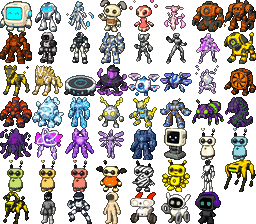
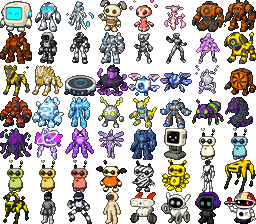
Add EMILIO, the tray-carrying service unit (species #49)
Twelfth homage on the roster: a tribute to the Bandai Emiglio/Emilio toy
butler robot. ALLOY/OPTIC, BST 506 weighted to bulk (108 DEF / 104 SPD)
with a deliberately low 52 SPE because it rolls on a tracked base.

Signature move TRAY SERVE (`heal_half`, self-target) is the roster's only
recovery signature - every other homage got an offensive one.

Art note: a white prop on a white body is invisible at 68 px. The serving
tray is EMILIO's whole identity and the first two renders lost it - held
level at the belly it dissolved into the torso, held out sideways it read
as a wing. It only survived once the prompt raised it aloft beside the head
on one claw, gave it a dark rim and underside, put a red cup on it as a
landmark, and demanded empty background all around and underneath it.

Accents are four saturated stops kept far from the white shell (the
warm-white beacon trap): hot orange eyes, lemon dome wedge, deep red wedge
and violet blue wedge, with the lemon chosen over golden yellow purely to
keep its distance from the eyes.

Encounters: ROUTE 3 (22-26) and CORE CITADEL (30-34). Also leads SENTINEL
VASH's elite team at level 36.

Translated into es/fr/it/ja (934/934 keys, ACCENTS OK, I18N OK in all five
languages). 79 unit tests plus newmons, battle, battle-bars, turn-order,
gyms, recovery, fx, overworld-fx, ambience and vs harnesses all green.

Copilot-Session: 3974e395-4a4d-4de5-b6cf-b02f7bb5b7c5

Changed region(s): [[0.875, 0.8438, 1.0, 1.0]]

diff --git a/client/src/game/data/maps.ts b/client/src/game/data/maps.ts
@@ -1017,6 +1017,7 @@ export const ROUTE3: MapDef = {
     { species: 'beni', min: 19, max: 23, weight: 6 },
     { species: 'loona', min: 20, max: 24, weight: 5 },
     { species: 'emo', min: 21, max: 25, weight: 4 },
+    { species: 'emilio', min: 22, max: 26, weight: 4 },
   ],
 };
 
@@ -1287,6 +1288,7 @@ export const CITADEL: MapDef = {
     { species: 'spotarm', min: 30, max: 34, weight: 5 },
     { species: 'emo', min: 28, max: 32, weight: 7 },
     { species: 'loona', min: 29, max: 33, weight: 5 },
+    { species: 'emilio', min: 30, max: 34, weight: 6 },
   ],
 };
 

diff --git a/client/src/game/data/trainers.ts b/client/src/game/data/trainers.ts
@@ -273,6 +273,7 @@ export const TRAINERS: Record<string, TrainerDef> = {
     key: 'elite_a', name: 'SENTINEL VASH', sprite: 'trainer_guard', payout: 260, ai: 2,
     music: 'elite',
     team: [
+      { species: 'emilio', level: 36 },
       { species: 'titanoid', level: 36 },
       { species: 'forgeron', level: 36 },
       { species: 'teslarch', level: 38 },

diff --git a/tools/newmons.py b/tools/newmons.py
@@ -44,6 +44,8 @@ NEW_MOVES = [
      "Bats at the foe with both front paws. May lower SPEED."),
     ("beat_drop", "BEAT DROP", "neural", "special", 85, 100, 15, "spd_down", 40, "foe", 0,
      "Pushes a bass line through its headphones. May lower SP.DEF."),
+    ("tray_serve", "TRAY SERVE", "alloy", "status", 0, 100, 10, "heal_half", 100, "self", 0,
+     "Serves itself a tray of chilled coolant. Restores half of its own HP."),
 ]
 
 # --------------------------------------------------------------------------- #
@@ -457,6 +459,63 @@ SPECIES = [
         learn=[(1, "data_spike"), (1, "mind_link"), (5, "pixel_grin"), (10, "strobe"),
                (15, "beat_drop"), (21, "logic_bomb"), (27, "firewall"), (33, "hypnotize"),
                (39, "stack_trace"), (46, "neural_storm"), (54, "kernel_panic")],
+    ),
+
+    # ------------------------------------------------------------------ EMILIO
+    dict(
+        key="emilio", name="EMILIO", inspired="EMILIO",
+        types=["alloy", "optic"], genus="Service Unit",
+        stats=(90, 78, 108, 74, 104, 52), catch=45, base_exp=197,
+        growth="medium_fast", height=0.52, weight=3.4, cell=(64, 60),
+        # White shell, so every accent has to stay far from white (the warm-white
+        # beacon lesson). Four saturated stops: the hot orange eyes are kept a
+        # long way from the lemon dome wedge, which is the pair most at risk of
+        # merging - lemon rather than golden yellow buys the margin.
+        accents=((0xF8, 0x70, 0x10), (0xF8, 0xE0, 0x28), (0xC8, 0x20, 0x30),
+                 (0x38, 0x48, 0xC0)),
+        dex="A retired service unit. It will not stop offering you a drink, and it has never once "
+            "dropped its tray.",
+        art="A charming retro toy service robot creature with no legs, rolling on a base, CARRYING A "
+            "TRAY: the head is a large smooth glossy WHITE dome like a rounded helmet, and the top "
+            "of that dome is split into three equally large bold coloured wedge panels - a deep "
+            "VIOLET BLUE wedge clearly visible on the left, a bright LEMON YELLOW wedge across the "
+            "top centre, and a deep RED wedge on the right, all three the same size and all three "
+            "plainly visible from the front - with a few fine white vent slats moulded across the "
+            "middle of them; the entire front of the head below those wedges is one wide glossy JET "
+            "BLACK visor band that wraps right around the face; floating on that black visor are "
+            "TWO large round glowing HOT ORANGE eyes set wide apart, lit from within like two "
+            "little lamps, the single brightest feature of the creature, and below them a thin "
+            "curved bright smile line, giving it a warm friendly grin; one small bright yellow tab "
+            "sticks out at the right side of the head; below the head a chunky glossy white barrel "
+            "torso with a round dark speaker grille at its centre and a few small red, blue and "
+            "yellow decal stripes on the chest; its right arm is RAISED and holds a flat white "
+            "rectangular SERVING TRAY aloft beside its head at shoulder height, balanced on the "
+            "flat of its white gripper claw exactly like a waiter, so the tray is completely clear "
+            "of the body with empty background visible all around it and underneath it - the tray "
+            "is a wide flat horizontal slab, as wide as the robot's head, drawn with a dark grey "
+            "rim and a dark grey underside so its edge reads as one crisp dark horizontal line "
+            "against the background, and a single small deep RED cup stands upright on top of it; "
+            "the other arm hangs down at its side and ends in a simple white gripper CLAW of two "
+            "flat parallel fingers; it has no legs at all - the body sits on a wide flat glossy "
+            "BLACK wedge-shaped base that it rolls on; crisp glossy white with the black visor, the "
+            "black base and the coloured dome wedges as the only accents; chunky friendly toy "
+            "proportions with the head deliberately oversized at roughly two fifths of the total "
+            "height",
+        art_back="A retro toy service robot creature seen from directly behind, its face completely "
+                 "hidden: the smooth blank glossy WHITE back of a large rounded dome head with no "
+                 "eyes and no face anywhere, showing one small round dark port at its centre, and "
+                 "the top of that dome still split into three bold coloured wedge panels seen from "
+                 "behind - a deep VIOLET BLUE wedge on one side, a bright LEMON YELLOW wedge across "
+                 "the top centre, and a deep RED wedge on the other side; below the head a chunky "
+                 "glossy white barrel torso seen from the rear with a small dark hatch panel; two "
+                 "short white arms at its sides, each ending in a white gripper claw of two flat "
+                 "parallel fingers, and the edge of a flat white rectangular TRAY just visible "
+                 "sticking out past one shoulder; it has no legs at all - the body sits on a wide "
+                 "flat glossy BLACK wedge-shaped rolling base; crisp glossy white with the black "
+                 "base and the coloured dome wedges as the only accents",
+        learn=[(1, "tackle"), (1, "laser_ping"), (5, "quick_jab"), (10, "tray_serve"),
+               (15, "strobe"), (21, "soft_grip"), (27, "dazzle_stripe"), (33, "grapple_arm"),
+               (39, "photon_beam"), (46, "visor_beam"), (54, "pile_drive")],
     ),
 ]
 

diff --git a/tools/build_dex.py b/tools/build_dex.py
@@ -157,6 +157,7 @@ MOVES = [
     mv("spring_leap", "SPRING LEAP", "servo", "physical", 90, 95, 10, effect="flinch", chance=30, desc="Coils its wheel legs and drops on the foe from above. May make it FLINCH."),
     mv("paw_wave", "PAW WAVE", "servo", "physical", 65, 100, 20, effect="spe_down", chance=40, desc="Bats at the foe with both front paws. May lower SPEED."),
     mv("beat_drop", "BEAT DROP", "neural", "special", 85, 100, 15, effect="spd_down", chance=40, desc="Pushes a bass line through its headphones. May lower SP.DEF."),
+    mv("tray_serve", "TRAY SERVE", "alloy", "status", 0, 100, 10, effect="heal_half", chance=100, target="self", desc="Serves itself a tray of chilled coolant. Restores half of its own HP."),
 ]
 
 # --------------------------------------------------------------------------- #

diff --git a/README.md b/README.md
@@ -17,7 +17,7 @@ tilemap, sprite, bitmap-font, transition and chiptune-audio layers are all in
 
 | | |
 |---|---|
-| Species | 48 across 10 types (VOLT, METAL, DATA, THERMAL, CRYO, KINETIC, OPTIC, NEURAL, VIRAL, QUANTUM) — including 11 homages to real robots, one of them with 8 forms |
+| Species | 49 across 10 types (VOLT, METAL, DATA, THERMAL, CRYO, KINETIC, OPTIC, NEURAL, VIRAL, QUANTUM) — including 12 homages to real robots, one of them with 8 forms |
 | Moves | 76 |
 | Items | 33 |
 | Maps | 26 — 4 towns/cities, 3 routes, a forest, interiors, and 3 datacenter gyms + the Citadel |
@@ -249,17 +249,27 @@ that way and the resulting sheets average a luminance of ~105–160.
 
 ## The homage roster (forms and COVER)
 
-Dex numbers **38–48** are portraits of real robots, named after the machines they
+Dex numbers **38–49** are portraits of real robots, named after the machines they
 honour: `stackchan`, `reachymini`, `optimus`, `spot` → `spotarm` (level 36),
-`figure03`, `unitree`, `neo`, `beni`, `loona`, `emo`. Their design lives in
-`tools/newmons.py` (`NEW_MOVES`, `REACHY_BODY`, `SPECIES`); run
+`figure03`, `unitree`, `neo`, `beni`, `loona`, `emo`, `emilio`. Their design lives
+in `tools/newmons.py` (`NEW_MOVES`, `REACHY_BODY`, `SPECIES`); run
 `python tools\build_dex.py` from the repo root after any edit, then
 `python tools\ship_newmons.py` to stage the sheets.
 
-The last three are the desktop/companion end of the roster and each ships one
+The last four are the desktop/companion end of the roster and each ships one
 signature move: **BENI** (SERVO/OPTIC, hopper, 118 SPE) with `SPRING LEAP`,
-**LOONA** (SERVO/NEURAL, petbot) with `PAW WAVE`, and **EMO** (DATA/NEURAL,
-desktop unit, 120 SPA) with `BEAT DROP`.
+**LOONA** (SERVO/NEURAL, petbot) with `PAW WAVE`, **EMO** (DATA/NEURAL,
+desktop unit, 120 SPA) with `BEAT DROP`, and **EMILIO** (ALLOY/OPTIC, tracked
+butler, 108 DEF / 104 SPD / 52 SPE) with `TRAY SERVE` — the roster's only
+recovery signature (`heal_half`, self-target).
+
+**A white prop on a white body is invisible at 68 px.** EMILIO's serving tray is
+its whole identity and the first two renders lost it: held level in front of the
+belly it dissolved into the torso, and held out sideways it read as a wing. It
+only survived once the prompt raised it *aloft beside the head on one claw*, gave
+it a *dark rim and dark underside*, put a *red cup* on it as a landmark, and
+demanded *empty background all around and underneath it*. Silhouette separation
+beats descriptive detail — say where the background must show through.
 
 Two rules governed the integration and must hold for any future addition:
 
